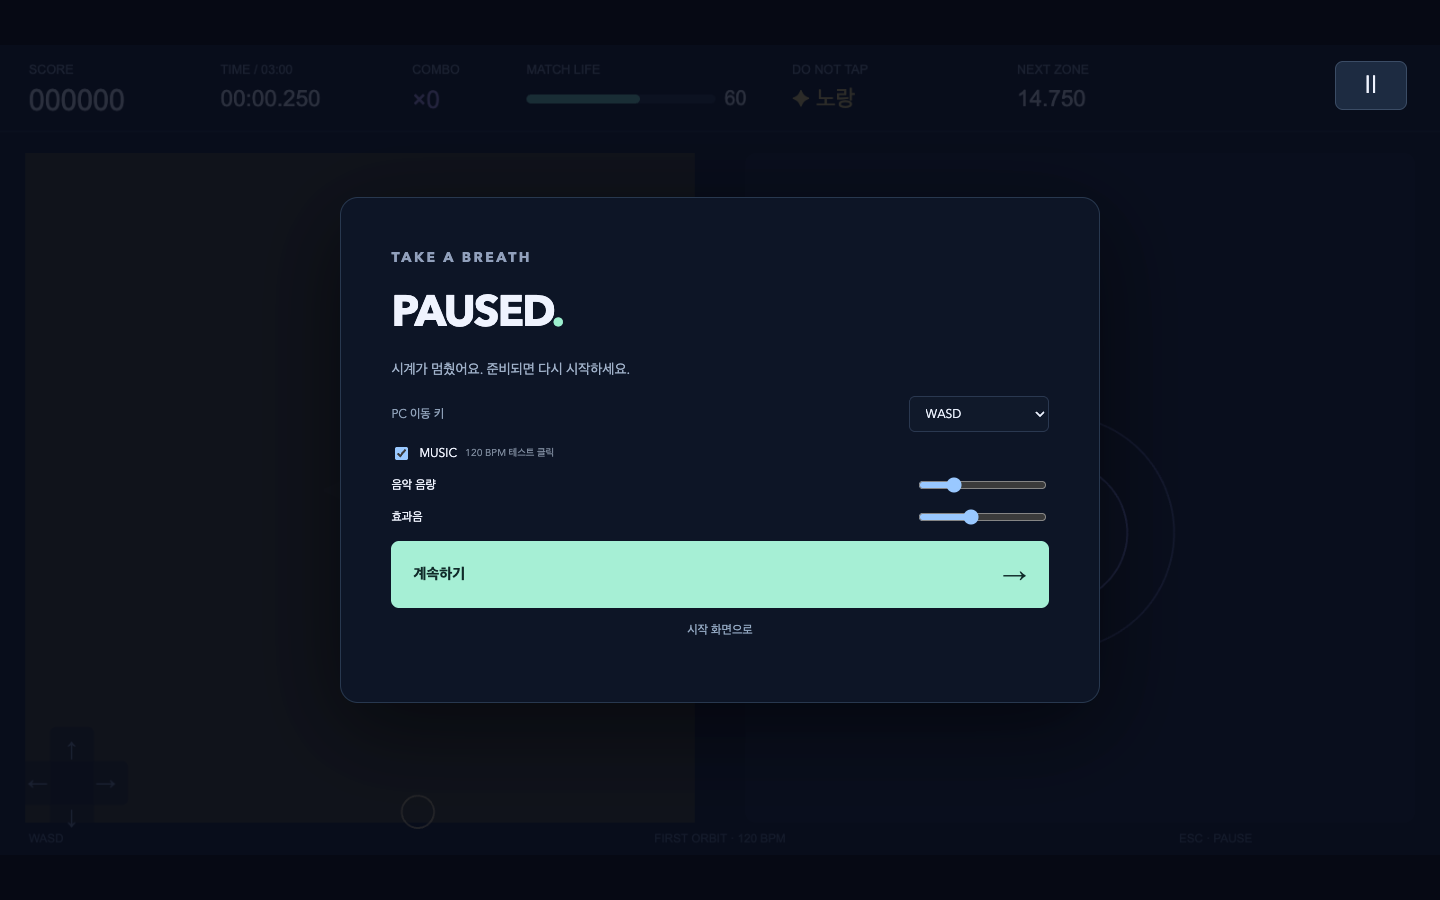
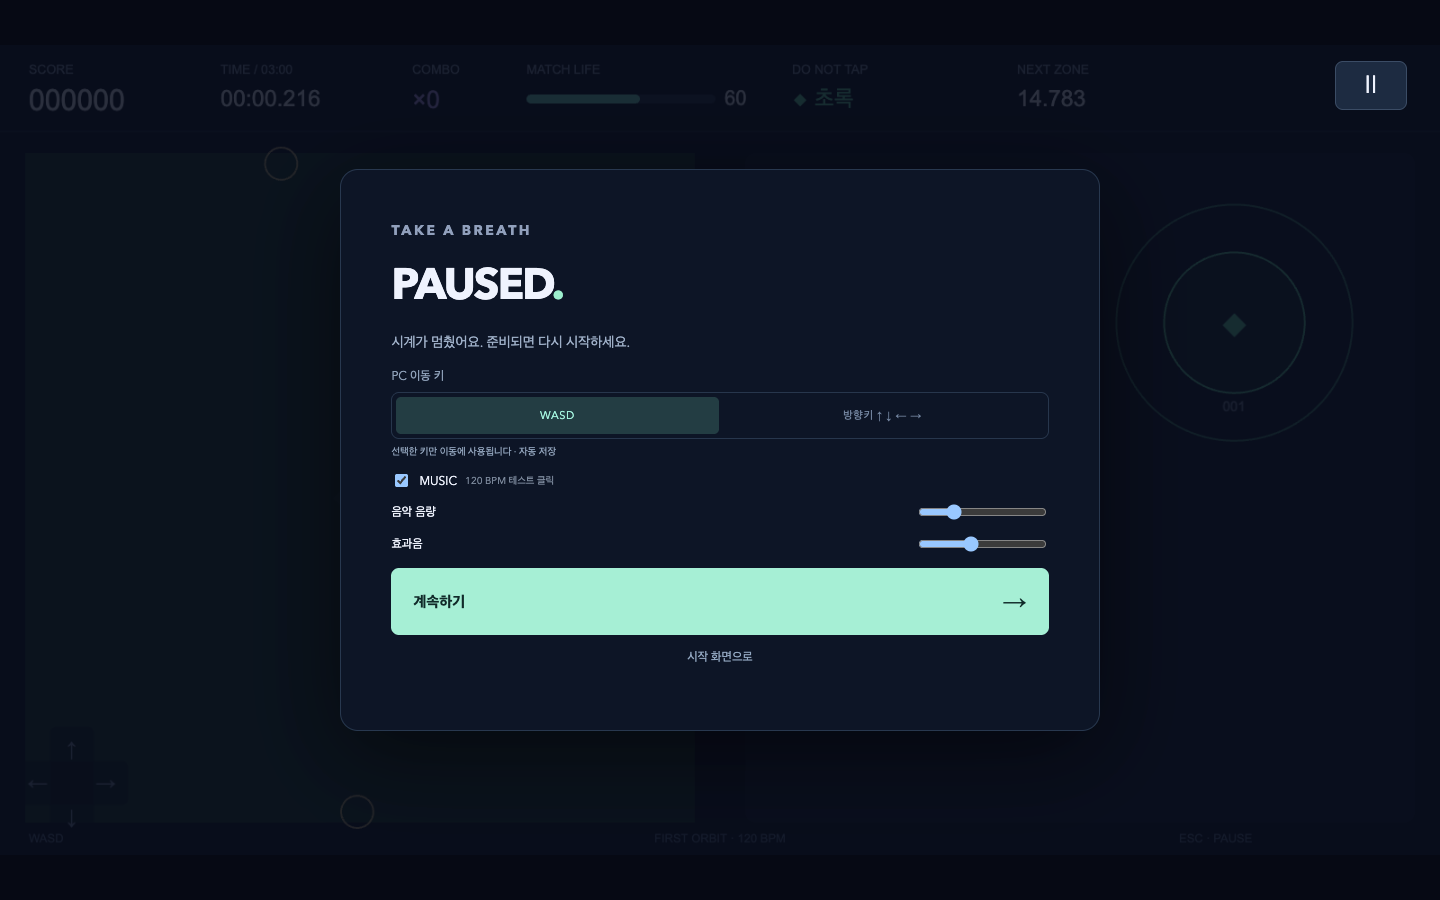
Make WASD and arrow controls visible and fix compact settings layout

diff --git a/src/main.ts b/src/main.ts
@@ -57,17 +57,23 @@ function shell(content: string) {
   overlay.hidden = false;
 }
 function keyboardForm() {
-  return `<label class="keyboard-setting" for="keyboard-layout">PC 이동 키<select id="keyboard-layout"><option value="wasd" ${prefs.keyboardLayout === "wasd" ? "selected" : ""}>WASD</option><option value="arrows" ${prefs.keyboardLayout === "arrows" ? "selected" : ""}>방향키 ↑ ↓ ← →</option></select></label>`;
+  return `<fieldset class="keyboard-setting"><legend>PC 이동 키</legend><div class="segmented" role="group" aria-label="PC 이동 키"><button type="button" data-keyboard="wasd" aria-pressed="${prefs.keyboardLayout === "wasd"}" class="${prefs.keyboardLayout === "wasd" ? "selected" : ""}">WASD</button><button type="button" data-keyboard="arrows" aria-pressed="${prefs.keyboardLayout === "arrows"}" class="${prefs.keyboardLayout === "arrows" ? "selected" : ""}">방향키 ↑ ↓ ← →</button></div><small>선택한 키만 이동에 사용됩니다 · 자동 저장</small></fieldset>`;
 }
 function bindKeyboard() {
-  document.querySelector<HTMLSelectElement>("#keyboard-layout")!.onchange = (
-    event,
-  ) => {
-    clearInput();
-    prefs.keyboardLayout = (event.target as HTMLSelectElement)
-      .value as KeyboardLayout;
-    saveSettings(prefs);
-  };
+  const buttons = Array.from(
+    document.querySelectorAll<HTMLButtonElement>("[data-keyboard]"),
+  );
+  for (const button of buttons)
+    button.onclick = () => {
+      clearInput();
+      prefs.keyboardLayout = button.dataset.keyboard as KeyboardLayout;
+      saveSettings(prefs);
+      for (const item of buttons) {
+        const active = item.dataset.keyboard === prefs.keyboardLayout;
+        item.setAttribute("aria-pressed", String(active));
+        item.classList.toggle("selected", active);
+      }
+    };
 }
 function isEditing(target: EventTarget | null) {
   return (

diff --git a/src/style.css b/src/style.css
@@ -600,32 +600,52 @@ html[data-reduced="true"] #runner {
 }
 
 .keyboard-setting {
-  display: flex;
-  align-items: center;
-  justify-content: space-between;
-  gap: 12px;
+  border: 0;
+  padding: 0;
   margin: 12px 0;
+  min-width: 0;
   color: #8fa1b9;
   font-size: 12px;
 }
-.keyboard-setting select {
-  background: #10192a;
-  border: 1px solid #2a3850;
-  border-radius: 6px;
-  color: #eaf0fc;
-  padding: 8px 12px;
-  min-width: 140px;
-  font: inherit;
+.keyboard-setting legend {
+  padding: 0;
+  margin-bottom: 8px;
 }
-.keyboard-setting select:focus-visible {
-  outline: 3px solid #8aeada;
-  outline-offset: 3px;
+.keyboard-setting .segmented {
+  width: 100%;
+}
+.keyboard-setting small {
+  display: block;
+  margin-top: 6px;
+  color: #8fa1b9;
+  font-size: 10px;
 }
 @media (max-height: 600px) {
   .keyboard-setting {
     margin: 6px 0;
   }
-  .keyboard-setting select {
-    padding: 5px 9px;
+  .keyboard-setting legend {
+    margin-bottom: 4px;
+  }
+  .keyboard-setting small {
+    font-size: 9px;
+    margin-top: 4px;
+  }
+  .dog-preview {
+    height: 48px;
+  }
+}
+.launch {
+  overflow-y: auto;
+}
+.launch form {
+  flex: 0 0 auto;
+}
+.launch > small {
+  flex: 0 0 auto;
+}
+@media (max-height: 600px) {
+  .launch {
+    justify-content: flex-start;
   }
 }

diff --git a/docs/verification/keyboard-layout/results.md b/docs/verification/keyboard-layout/results.md
@@ -22,3 +22,22 @@
 
 브라우저 테스트의 일부 장면은 충돌을 제거한 fixture로 입력 자체를 검증한다.
 실제 모바일 기기 성능 검증을 의미하지 않는다. Vite의 Phaser 큰 번들 안내는 기존과 동일하다.
+
+## 사용성 수정 — 2026-09-17
+
+사용자 제보: WASD가 작동하지 않고 설정에서 WASD 선택이 보이지 않음.
+확인: 로컬 4173 포트에 실행 서버가 없었음. 캐시된 이전 화면이 남을 가능성이
+있으나 사용자가 보고 있던 정확한 번들/저장값은 직접 확인하지 못했으므로 단정하지 않음.
+기존 native select는 선택된 옵션 하나만 표시함.
+
+수정: 시작·일시정지에 WASD/방향키 두 버튼을 항상 표시하고 aria-pressed로 선택 상태를
+드러냄. 자동 저장 안내, 작은 화면의 폼 겹침/스크롤 수정. 설정된 키만 사용하는 계약 유지.
+실제 WASD 키와 한글 key+물리 code 입력, 설정 전환, 저장 복원을 검증했다.
+프로덕션 검증에도 두 버튼 표시와 WASD 선택 후 오프라인 리로드 저장 확인을 추가했다.
+
+검증 중 실패: NodeList 순회 타입 오류는 Array.from으로 수정. 추가 컨트롤 때문에
+좁은 화면에서 시작 버튼을 하단 문구가 가리는 문제는 form flex-shrink 해제와 스크롤로 수정.
+동시에 실행된 테스트 프로세스가 서버/trace 파일을 정리한 실행은 폐기하고 단독 재실행했다.
+
+최종 결과: 단위 테스트 32개 PASS, 최신 프로덕션 빌드 PASS,
+브라우저 7개 PASS (20.6초). setup.png/paused.png는 두 버튼 버전의 최신 화면이다.

diff --git a/docs/progress/keyboard-layout.md b/docs/progress/keyboard-layout.md
@@ -17,3 +17,9 @@
 
 현 기준 plan에서 새로 추가된 다음 미구현 계약은 이 작업으로 완료했다.
 물리 모바일 기기 성능·최종 음악/상태별 그림은 별도 후속 범위로 유지한다.
+
+## 후속 사용성 수정
+
+사용자 제보에 따라 숨겨진 드롭다운을 항상 보이는 WASD/방향키 버튼으로 바꿨다.
+작은 화면의 시작 버튼 겹침도 수정하고, 최신 프로덕션 번들의 두 버튼 표시와
+WASD 저장을 브라우저 검증에 추가했다. 로컬 서버는 별도 백그라운드 프로세스로 재실행한다.
